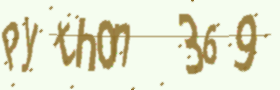
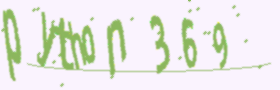
texto

diff --git a/__Concluir__/46_Gerador_de_Captcha/main.py b/__Concluir__/46_Gerador_de_Captcha/main.py
@@ -1,9 +1,10 @@
 from captcha.image import ImageCaptcha
 
+# criar uma instância com o tamanho da imagem
 image = ImageCaptcha(width=280, height=90)
 
-texto = 'Python 369'
+# texto para inserir na imagem
+txt = "python 369"
 
-data = image.generate(texto)
-
-image.write(texto, "Captcha.png")
+# Escrever a imagem no arquivo e salvar
+image.write(txt, "Captcha.png")
